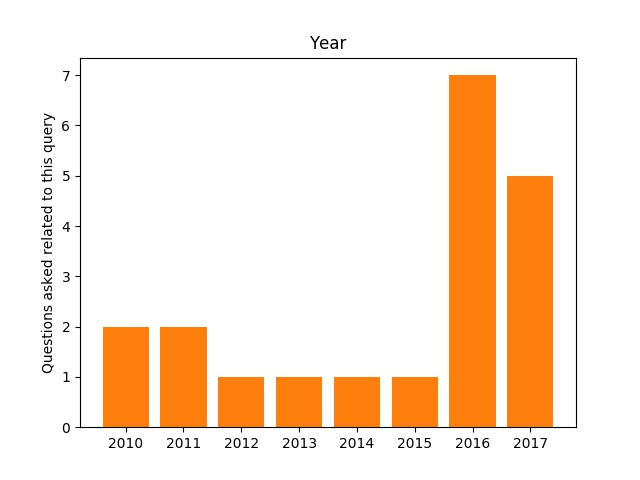
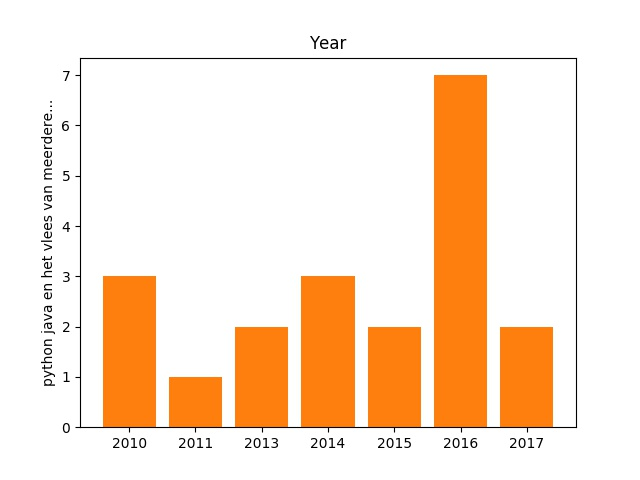
de grafiek heeft de search query op de y-as

Changed region(s): [[0.1562, 0.1562, 0.875, 0.9375], [0.0625, 0.2188, 0.0938, 0.8125]]

diff --git a/search/el_search.py b/search/el_search.py
@@ -63,7 +63,8 @@ def el_search(query, data, host, init, minimum=None, date='', before=0, after=0,
     plt.figure()
     plt.bar(y_pos, y, align='center', alpha=0.5)
     plt.xticks(y_pos, x)
-    plt.ylabel('Questions asked related to this query')
+    plotquery = ' '.join(query) if len(' '.join(query)) < 40 else ' '.join(query)[:37] + '...'
+    plt.ylabel(plotquery)
     plt.title('Year')
     plt.bar(x,y)
     plt.savefig('media/timeline.jpg')
